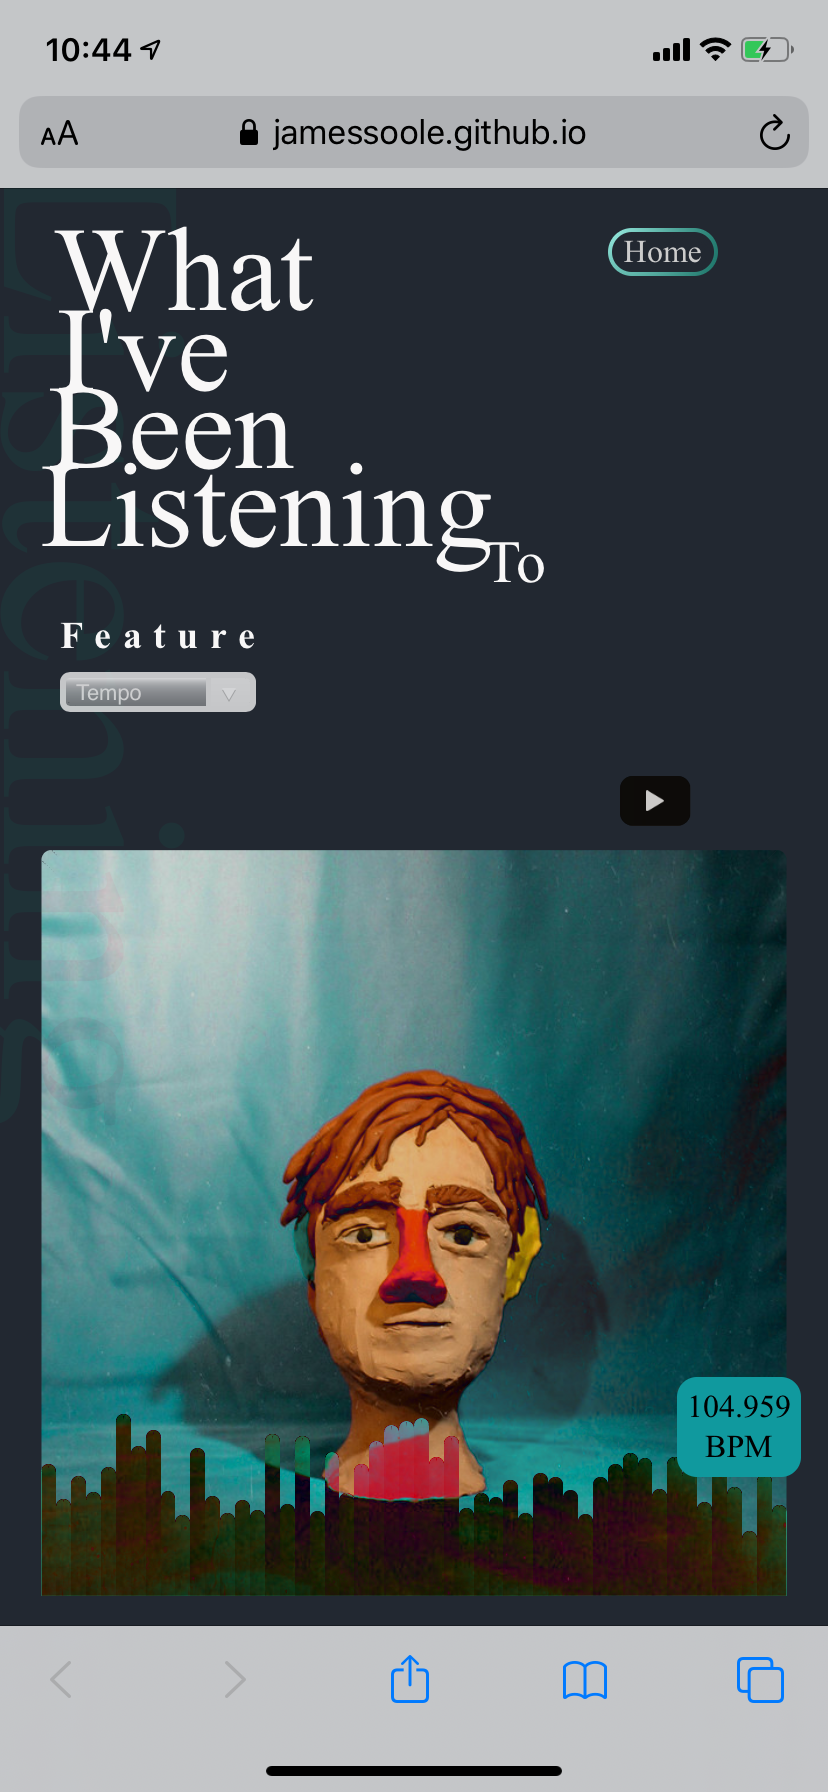
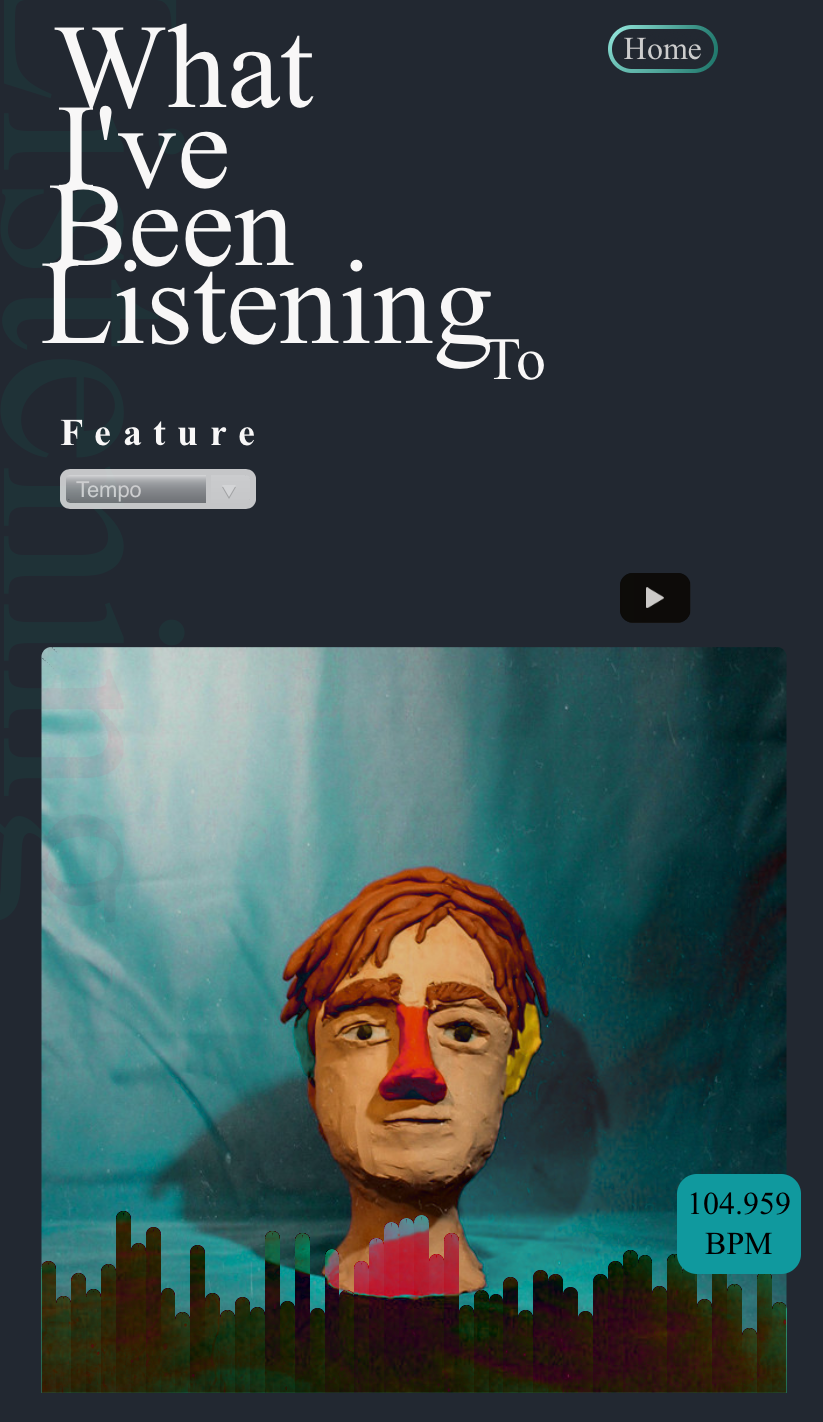
updated image onload

diff --git a/music-mood.css b/music-mood.css
@@ -277,7 +277,7 @@ body {
 
 
 /* cover art */
-.art {
+.art, .loading {
     position: absolute;
     bottom: 0;
     right: 0;
@@ -297,6 +297,41 @@ body {
 
 }
 
+.loading {
+    background: linear-gradient(120deg, transparent, rgba(255, 255, 255, .2), transparent);
+}
+
+/* dots displayed when image's loading */
+.loading-text {
+    position: absolute;
+    bottom: 100%;
+    left: 45%;
+    z-index: 5;
+    /* opacity: 0; */
+    visibility: hidden;
+    font-size: 60px;
+    color: #229788;
+    transition: 0.1 ease;
+    display: flex;
+    align-items: center;
+    justify-content: center;
+
+    animation: pulse 3s infinite;
+}
+@keyframes pulse {
+    0% {
+      opacity: 0;
+    }
+    50% {
+        opacity: 1;
+    }
+    100% {
+        opacity: 0;
+    }
+  }
+
+
+  
 /* play audio button */
 #audio {
     transform: rotate(-90deg);
@@ -371,3 +406,6 @@ body {
         color: #145a51;
     }
 }
+
+
+

diff --git a/music-mood.js b/music-mood.js
@@ -289,11 +289,18 @@ function art(i) {
         
     } else {
         document.querySelector('.art').src = arturl;
-        document.querySelector('.art').style.opacity = 1;
+        document.querySelector('.art').style.opacity = 0.1;
+        document.querySelector('.loading-text').style.visibility = 'visible';        
+
         document.querySelector('#audio').src = previewurl;
         document.querySelector('#audio').style.transform = "scale(0.8)";
     }
 }
 
 
+// makes image visible only when fully loaded
+document.querySelector('.art').addEventListener('load', () => {
+    document.querySelector('.loading-text').style.visibility = 'hidden';        
+    document.querySelector('.art').style.opacity = 1;
+});
 

diff --git a/index.html b/index.html
@@ -47,7 +47,8 @@
     <!-- also contains description,art, and audio -->
     <div class="data-container">
 
-        <img class="art">
+        <img class="art loading"></figure>
+        <div class="loading-text">. . . </div>
         <audio id="audio" controls></audio>
 
         <!-- description text box for artist and song name-->
